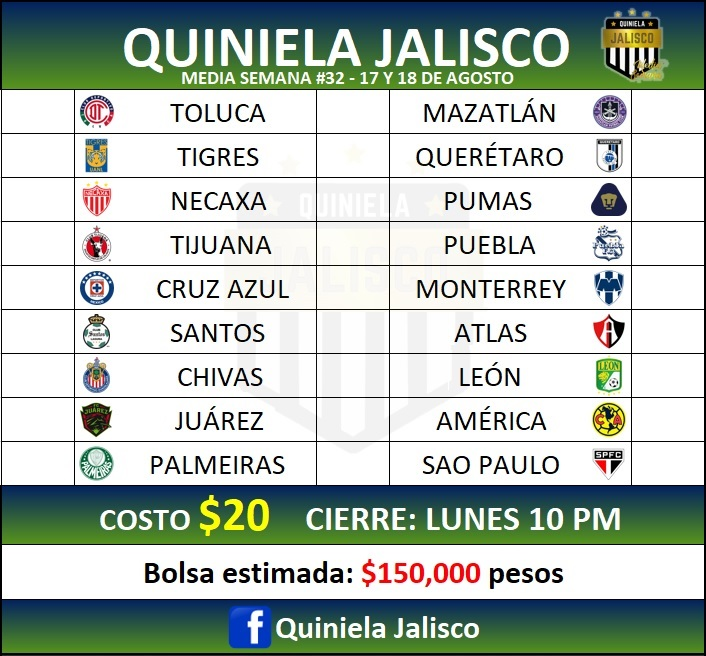
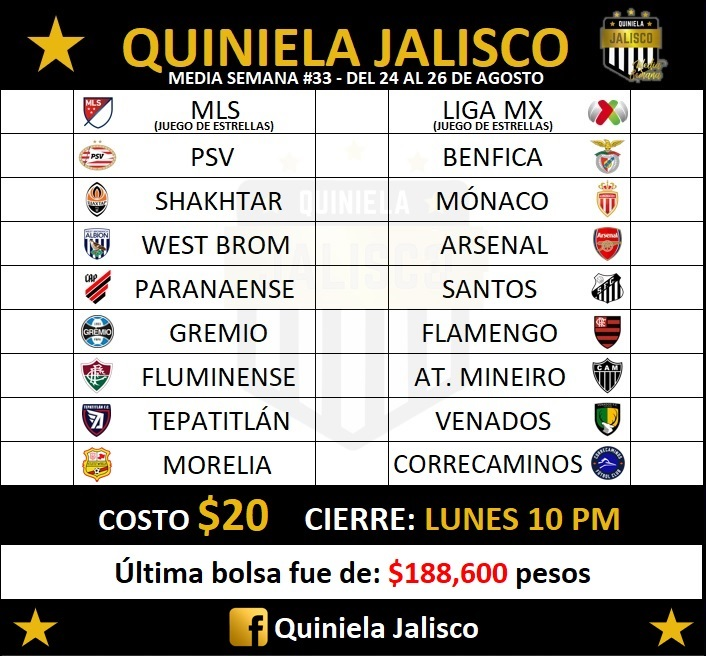
Media Semana #33

diff --git a/MediaSemana/stylesm.css b/MediaSemana/stylesm.css
@@ -74,7 +74,7 @@ body{
     max-width: 400px;
     margin: auto;
     background-color: rgb(6,12,37);
-    background-image: url("../fondo7.jpg");
+    background-image: url("../fondo14.jpg");
     background-repeat: repeat-y;
     background-position: top;
 }
@@ -85,12 +85,12 @@ h1{
     background-color: teal;
     text-align: center;
     padding: 18px;
-    color: rgb(255 247 0);
+    color: rgb(250,180,28);
     margin-top: 8%;
     border: solid 1px black;
     border-radius: 0 0 14px 14px;
-    background: -webkit-linear-gradient(0.5turn, rgb(90,142,41)  ,rgb(7,39,100) 80%);
-    background: linear-gradient(0.5turn, rgb(90,142,41)  ,rgb(7,39,100) 80%);
+    background: -webkit-linear-gradient(0.5turn, rgb(0,0,0)  ,rgb(0,0,0) 80%);
+    background: linear-gradient(0.5turn, rgb(0,0,0,)  ,rgb(0,0,0) 80%);
     font-size: x-large;
     text-shadow: 3px 3px 3px black;
 }

diff --git a/media.html b/media.html
@@ -15,7 +15,7 @@
 </head>
 
 <body>
-    <<br>
+    <br>
     <br>
     <!--<p style='color:white;text-align:center'>Bolsa estimada: <span style="color:yellow">+$200,000 pesos</span></p>-->
     <div class="quiniela" id="quiniela">
